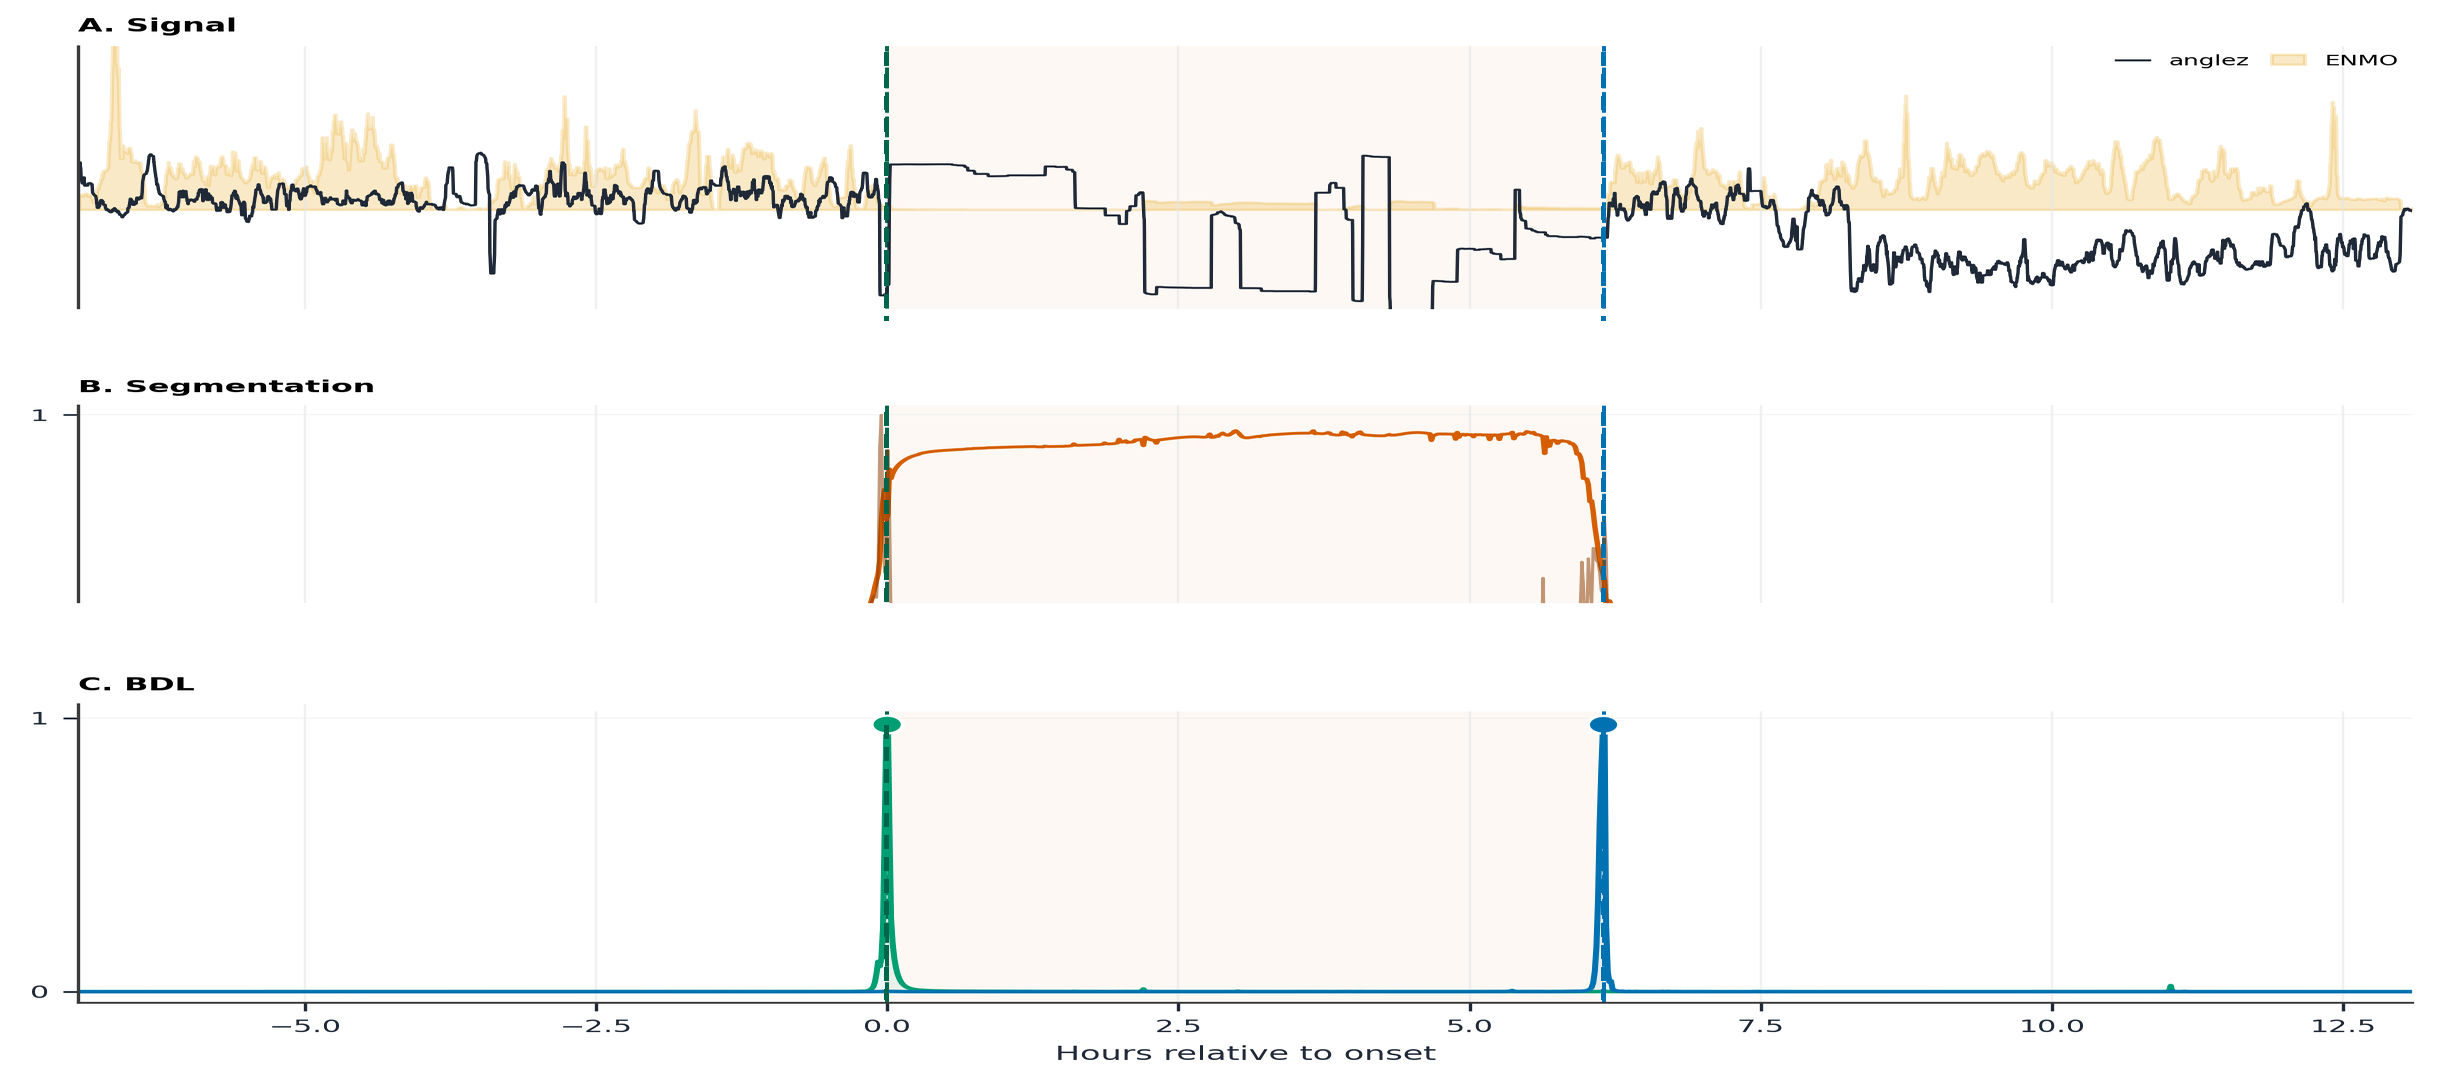
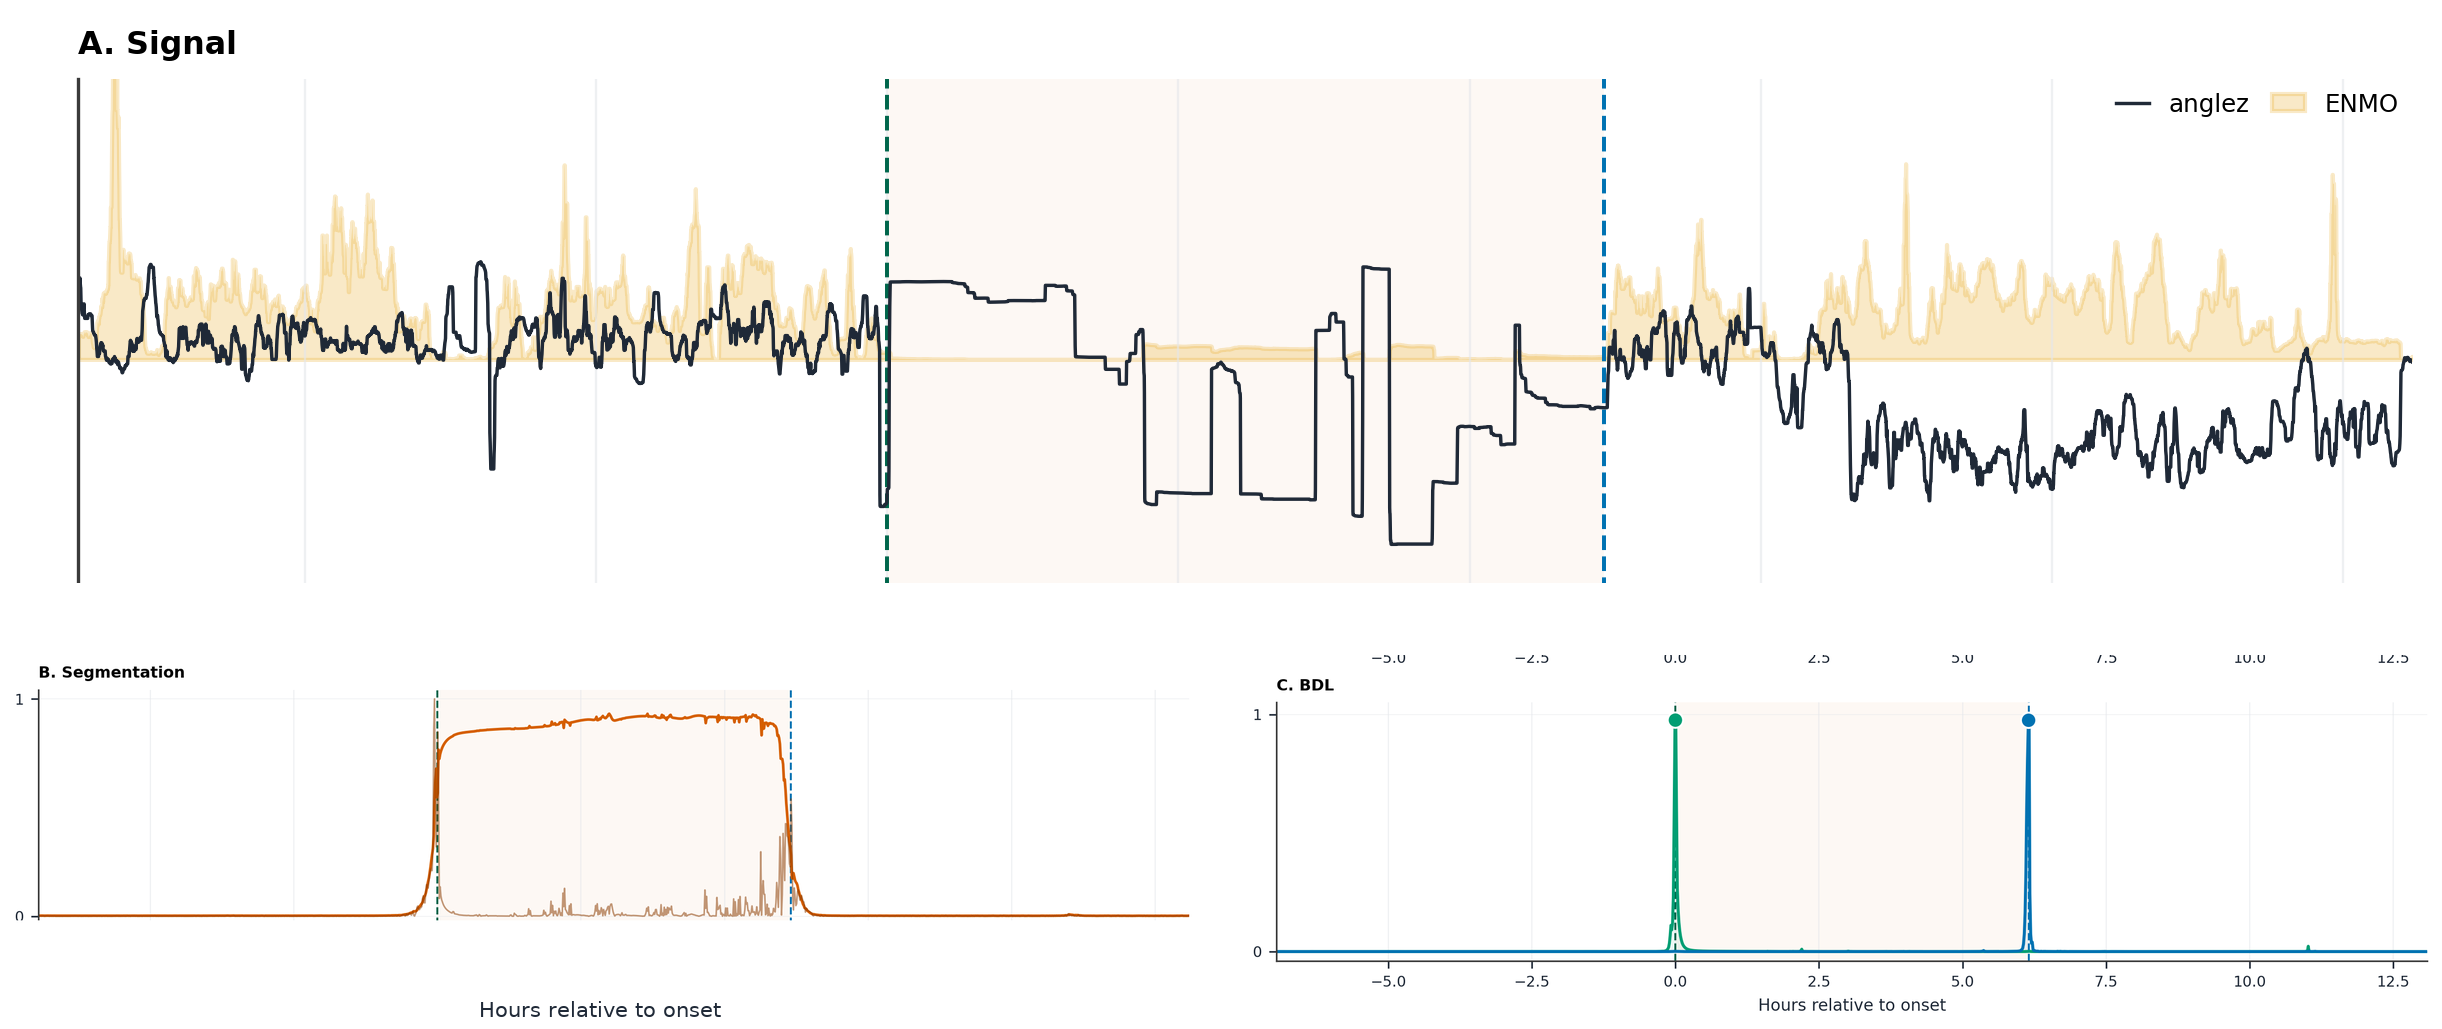
Balance compact Figure 2 labels

diff --git a/paper/make_plots.py b/paper/make_plots.py
@@ -1078,11 +1078,17 @@ def plot_sleep_prediction_example(outdir):
     fig_col.savefig(outdir / "sleep_prediction_column.png", dpi=260)
     plt.close(fig_col)
 
-    fig_compact = plt.figure(figsize=(6.75, 2.75))
-    gs_compact = fig_compact.add_gridspec(3, 1, height_ratios=[0.92, 0.70, 0.78], hspace=0.12)
-    k_signal = fig_compact.add_subplot(gs_compact[0, 0])
-    k_seg = fig_compact.add_subplot(gs_compact[1, 0], sharex=k_signal)
-    k_bdl = fig_compact.add_subplot(gs_compact[2, 0], sharex=k_signal)
+    fig_compact = plt.figure(figsize=(6.75, 2.90))
+    gs_compact = fig_compact.add_gridspec(
+        2,
+        2,
+        height_ratios=[1.02, 0.86],
+        hspace=0.24,
+        wspace=0.10,
+    )
+    k_signal = fig_compact.add_subplot(gs_compact[0, :])
+    k_seg = fig_compact.add_subplot(gs_compact[1, 0])
+    k_bdl = fig_compact.add_subplot(gs_compact[1, 1])
     k_axes = [k_signal, k_seg, k_bdl]
     for ax in k_axes:
         ax.axvspan(onset_hour, wake_hour, color=PALETTE["seg_light"], alpha=0.13, lw=0)
@@ -1098,6 +1104,7 @@ def plot_sleep_prediction_example(outdir):
     k_signal.fill_between(hours_raw, 0, enmo_norm, color=PALETTE["gold"], alpha=0.20, label="ENMO")
     k_signal.set_ylim(-1.9, 2.1)
     k_signal.set_yticks([])
+    k_signal.set_xlim(hours_raw.min(), hours_raw.max())
     k_signal.legend(
         loc="upper right",
         fontsize=5.2,
@@ -1112,8 +1119,10 @@ def plot_sleep_prediction_example(outdir):
     k_seg.plot(hours_pred, transition, color=PALETTE["seg_dark"], linewidth=0.55, alpha=0.50)
     k_seg.fill_between(hours_pred, 0, seg, color=PALETTE["seg"], alpha=0.08)
     k_seg.set_ylim(-0.04, 1.04)
+    k_seg.set_xlim(hours_raw.min(), hours_raw.max())
     k_seg.set_yticks([0, 1])
     k_seg.set_yticklabels(["0", "1"], fontsize=5.7)
+    k_seg.set_xlabel("Hours relative to onset", fontsize=6.6)
 
     k_bdl.set_title("C. BDL", loc="left", fontsize=6.8, weight="semibold", pad=1.0)
     k_bdl.plot(hours_pred, bdl_on, color=PALETTE["bdl"], linewidth=1.10)
@@ -1140,8 +1149,7 @@ def plot_sleep_prediction_example(outdir):
         ax.tick_params(axis="both", labelsize=5.8, pad=1.0)
         ax.set_ylabel("")
     plt.setp(k_signal.get_xticklabels(), visible=False)
-    plt.setp(k_seg.get_xticklabels(), visible=False)
-    fig_compact.subplots_adjust(left=0.060, right=0.995, top=0.935, bottom=0.160)
+    fig_compact.subplots_adjust(left=0.060, right=0.995, top=0.930, bottom=0.170)
     fig_compact.savefig(outdir / "sleep_prediction_compact.png", dpi=280)
     plt.close(fig_compact)
 

diff --git a/paper/main_ts4h_4page.tex b/paper/main_ts4h_4page.tex
@@ -207,11 +207,11 @@ helps.
 
 \begin{figure}[t]
 \centering
-\includegraphics[width=0.98\linewidth]{sleep_prediction_compact.png}
-\caption{Held-out sleep window on a shared time axis.  Dashed lines mark the
-annotated onset and wake-up.  Segmentation predicts a state interval and
-derives boundary scores afterward; BDL directly scores the endpoint events
-matched by event AP.}
+\includegraphics[width=\linewidth]{sleep_prediction_compact.png}
+\caption{Held-out sleep window.  The top panel shows the input signal; the
+bottom panels compare segmentation-derived boundary scores with direct BDL
+endpoint scores on matched time axes.  Dashed lines mark the annotated onset
+and wake-up.}
 \label{fig:qualitative}
 \end{figure}
 
